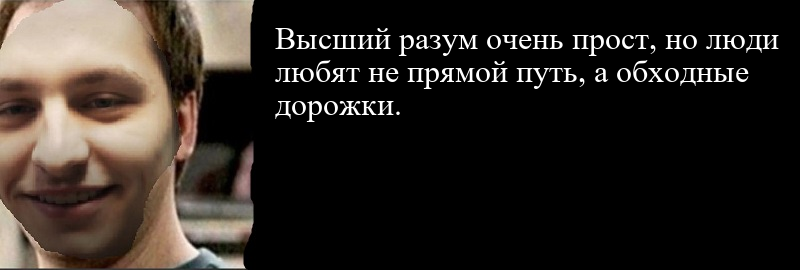
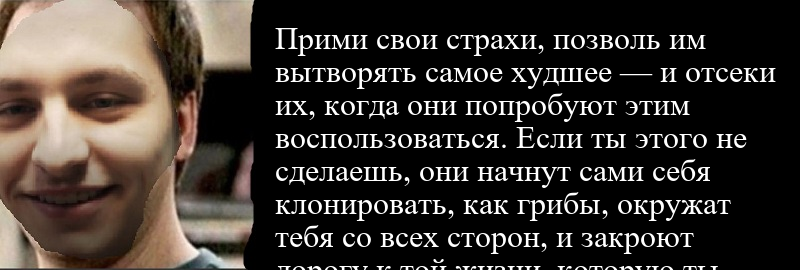
upd for heroku

diff --git a/heroku_run.py b/heroku_run.py
@@ -1,0 +1,149 @@
+#! /usr/bin/env python
+# -*- coding: utf-8 -*-
+import logging
+import os
+from aiogram import Bot, types, md
+from aiogram.dispatcher import Dispatcher
+from aiogram.utils.executor import start_webhook
+import random
+import asyncio
+import aiohttp
+from PIL import Image, ImageChops, ImageDraw, ImageFont
+
+TOKEN = os.environ['TOKEN']
+ID_TRENER = os.environ['ID_TRENER']
+
+WEBHOOK_HOST = 'https://djavidbot.herokuapp.com/'  # name your app
+WEBHOOK_PATH = '/webhook/'
+WEBHOOK_URL = f"{WEBHOOK_HOST}{WEBHOOK_PATH}"
+
+WEBAPP_HOST = '0.0.0.0'
+WEBAPP_PORT = os.environ.get('PORT')
+
+logging.basicConfig(level=logging.INFO)
+
+bot = Bot(token=TOKEN)
+dp = Dispatcher(bot)
+newmemes_count = [0]
+
+def check_admin_id(from__user__id) :
+    if from__user__id == ID_TRENER :
+        return True
+    else :
+        return False
+
+def get_array_words(stringii) :
+    my_array_w = stringii.split(' ');
+    return my_array_w
+
+def get_array_strings(stringii,lenght_odnoj_string,font_fs) :
+    my_array_w = stringii.split(' ');
+    return_array_strs = [my_array_w[0]]
+    i = 1
+    row_index = 0
+    while i < len(my_array_w) :
+        size_new_str_in_pxls = font_fs.getsize(return_array_strs[row_index]+' '+my_array_w[i])
+        #print('\nwidth : '+str(size_new_str_in_pxls[0])+'\n')
+        if(size_new_str_in_pxls[0] < lenght_odnoj_string) :
+            return_array_strs[row_index] = return_array_strs[row_index] + ' ' + my_array_w[i]
+        else :
+            row_index = row_index + 1
+            return_array_strs.append(my_array_w[i])
+        i = i + 1
+    return return_array_strs
+
+async def create_david_mem(typo_text__citati) :
+    newmemes_count[0] = newmemes_count[0] + 1;
+    if newmemes_count[0] > 20 :
+        newmemes_count[0] = 1
+    font = ImageFont.truetype("times.ttf", size=32)
+    try:
+        my_img = Image.open("img/ava_horiz_270.jpg")
+    except:
+        print("Unable to load image")
+    idraw = ImageDraw.Draw(my_img)
+    #text = typo_text__citati
+    array_text = get_array_strings(typo_text__citati,520,font)
+    visota = 33
+    i = 0
+    for text_one_stringi in array_text :
+         idraw.text((275, 20+(visota*i)), array_text[i], font=font)
+         i = i + 1
+    my_img_new_name = 'mem'+str(newmemes_count[0])+'.png'
+    my_img.save(my_img_new_name)
+    return my_img_new_name
+
+async def get_citata() :
+    text_citati = ""
+    session = aiohttp.ClientSession()
+    my_querty_post_ = {'method':'getQuote','key':'457653','format':'json','lang':'ru'}
+    async with session.post('http://api.forismatic.com/api/1.0/', data=my_querty_post_) as resp :
+        my_json = await resp.json()
+        text_citati = my_json['quoteText']
+        print(await resp.json())
+    await session.close()
+    return text_citati
+
+#-- Команди для плєбєїв
+@dp.message_handler(commands=['start'])
+async def process_start_command(message: types.Message):
+    if check_admin_id(message.from_user.id) :
+        await bot.send_message(message.from_user.id, "/help\n/debsd\n/testq\n\t\tАхуєнний Код Давінчі")
+    else :
+        await bot.send_message(message.from_user.id, "Djavid Commands:\n/help\n/mydroch\n/autor")
+
+@dp.message_handler(commands=['help'])
+async def process_help_command(message: types.Message):
+    await bot.send_message(message.chat.id, "/mydroch - форсовано змусити мене сказати шось разумне.\n(c) Djavid")
+
+@dp.message_handler(commands=['autor'])
+async def process_help_command(message: types.Message):
+    await bot.send_message(message.from_user.id, "Зробив LS. кантакт @romanefimen")
+
+@dp.message_handler(commands=['debsd'])
+async def process_debsd_command(message: types.Message):
+    if check_admin_id(message.from_user.id) :
+        print(str(message))
+
+@dp.message_handler(commands=['testq'])
+async def process_testq_command(message: types.Message):
+    if check_admin_id(message.from_user.id) :
+        lol = await get_citata()
+        img_path = await create_david_mem(lol)
+        #await bot.send_message(message.chat.id, lol+'\n(c) Джавид')
+        await bot.send_photo(message.from_user.id, open(img_path,'rb'))
+        #print("Citat\n"+lol+'\n')
+
+@dp.message_handler(commands=['mydroch'])
+async def process_mydrost_command(message: types.Message):
+    citata_text = await get_citata()
+    img_path = await create_david_mem(citata_text)
+    await bot.send_photo(message.chat.id, open(img_path,'rb'))
+
+#-- My commands vsyo
+'''
+@dp.message_handler(commands='start')
+async def welcome(message: types.Message):
+    await bot.send_message(
+        message.chat.id,
+        f'Приветствую! Это демонтрационный бот\n'
+        f'Подробная информация на '
+        f'{md.hlink("github", "https://github.com/deploy-your-bot-everywhere/heroku")}',
+        parse_mode=types.ParseMode.HTML,
+        disable_web_page_preview=True)
+@dp.message_handler()
+async def echo(message: types.Message):
+    await bot.send_message(message.chat.id, message.text)
+'''
+
+async def on_startup(dp):
+    await bot.set_webhook(WEBHOOK_URL)
+
+async def on_shutdown(dp):
+    await bot.send_message(ID_TRENER, "Я лежу пизда мен1")
+    pass
+
+if __name__ == '__main__':
+    start_webhook(dispatcher=dp, webhook_path=WEBHOOK_PATH,
+                  on_startup=on_startup, on_shutdown=on_shutdown,
+                  host=WEBAPP_HOST, port=WEBAPP_PORT)

diff --git a/primer/heroku-master/main.py b/primer/heroku-master/main.py
@@ -1,0 +1,51 @@
+import logging
+import os
+from aiogram import Bot, types, md
+from aiogram.dispatcher import Dispatcher
+from aiogram.utils.executor import start_webhook
+
+TOKEN = os.environ['TOKEN']
+
+
+WEBHOOK_HOST = 'https://deploy-heroku-bot.herokuapp.com'  # name your app
+WEBHOOK_PATH = '/webhook/'
+WEBHOOK_URL = f"{WEBHOOK_HOST}{WEBHOOK_PATH}"
+
+WEBAPP_HOST = '0.0.0.0'
+WEBAPP_PORT = os.environ.get('PORT')
+
+logging.basicConfig(level=logging.INFO)
+
+bot = Bot(token=TOKEN)
+dp = Dispatcher(bot)
+
+
+@dp.message_handler(commands='start')
+async def welcome(message: types.Message):
+    await bot.send_message(
+        message.chat.id,
+        f'Приветствую! Это демонтрационный бот\n'
+        f'Подробная информация на '
+        f'{md.hlink("github", "https://github.com/deploy-your-bot-everywhere/heroku")}',
+        parse_mode=types.ParseMode.HTML,
+        disable_web_page_preview=True)
+
+
+@dp.message_handler()
+async def echo(message: types.Message):
+    await bot.send_message(message.chat.id, message.text)
+
+
+async def on_startup(dp):
+    await bot.set_webhook(WEBHOOK_URL)
+
+
+async def on_shutdown(dp):
+    # insert code here to run it before shutdown
+    pass
+
+
+if __name__ == '__main__':
+    start_webhook(dispatcher=dp, webhook_path=WEBHOOK_PATH,
+                  on_startup=on_startup, on_shutdown=on_shutdown,
+                  host=WEBAPP_HOST, port=WEBAPP_PORT)

diff --git a/main.py b/main.py
@@ -1,0 +1,49 @@
+import logging
+import os
+from aiogram import Bot, types, md
+from aiogram.dispatcher import Dispatcher
+from aiogram.utils.executor import start_webhook
+
+TOKEN = os.environ['TOKEN']
+
+WEBHOOK_HOST = 'https://deploy-heroku-bot.herokuapp.com'  # name your app
+WEBHOOK_PATH = '/webhook/'
+WEBHOOK_URL = f"{WEBHOOK_HOST}{WEBHOOK_PATH}"
+
+WEBAPP_HOST = '0.0.0.0'
+WEBAPP_PORT = os.environ.get('PORT')
+
+logging.basicConfig(level=logging.INFO)
+
+bot = Bot(token=TOKEN)
+dp = Dispatcher(bot)
+
+@dp.message_handler(commands='start')
+async def welcome(message: types.Message):
+    await bot.send_message(
+        message.chat.id,
+        f'Приветствую! Это демонтрационный бот\n'
+        f'Подробная информация на '
+        f'{md.hlink("github", "https://github.com/deploy-your-bot-everywhere/heroku")}',
+        parse_mode=types.ParseMode.HTML,
+        disable_web_page_preview=True)
+
+
+@dp.message_handler()
+async def echo(message: types.Message):
+    await bot.send_message(message.chat.id, message.text)
+
+
+async def on_startup(dp):
+    await bot.set_webhook(WEBHOOK_URL)
+
+
+async def on_shutdown(dp):
+    # insert code here to run it before shutdown
+    pass
+
+
+if __name__ == '__main__':
+    start_webhook(dispatcher=dp, webhook_path=WEBHOOK_PATH,
+                  on_startup=on_startup, on_shutdown=on_shutdown,
+                  host=WEBAPP_HOST, port=WEBAPP_PORT)

diff --git a/primer/heroku-master/README.md b/primer/heroku-master/README.md
@@ -1,0 +1,133 @@
+# Deploy [Heroku](https://www.heroku.com/) Bot
+
+## Подготовка
+* Регистрируемся по [ссылке](https://signup.heroku.com/)
+
+* Далее скачиваем [Heroku CLI](https://devcenter.heroku.com/articles/getting-started-with-python#set-up)
+
+* Клонируем репозиторий
+```
+git clone https://github.com/deploy-your-bot-everywhere/heroku.git
+```
+> ВАЖНО!: Если вы создаете проект с нуля, то инициализируйте репозиторий командой `git init`
+
+## Работа с Heroku CLI
+* Логинимся
+```bash
+╰─ heroku login
+heroku: Enter your login credentials
+Email: example@gmail.com
+Password: ******
+Logged in as example@gmail.com
+
+```
+* Создаем приложение, где указываем нужный **buildpack** и регион **eu** или **us**
+```bash
+╰─ heroku create -b heroku/python --region eu deploy-heroku-bot 
+Creating ⬢ deploy-heroku-bot... done, region is eu
+Setting buildpack to heroku/python... done
+https://deploy-heroku-bot.herokuapp.com/ | https://git.heroku.com/deploy-heroku-bot.git
+```
+* Связываем наш репозиторий с Heroku
+```bash
+heroku git:remote deploy-heroku-bot
+```
+* Прописываем токен бота в переменную окружения
+```bash
+╰─ heroku config:set TOKEN=123429417:AAEG39dbtyy4UrUDkvE7L5hIKuoIuQp9pfs
+Setting TOKEN and restarting ⬢ deploy-heroku-bot... done, v4
+TOKEN: 123429417:AAEG39dbtyy4UrUDkvE7L5hIKuoIuQp9pfs
+```
+* Деплоим
+```bash
+╰─ git push heroku master
+Подсчет объектов: 11, готово.
+Delta compression using up to 4 threads.
+Сжатие объектов: 100% (5/5), готово.
+Запись объектов: 100% (11/11), 1.61 KiB | 0 bytes/s, готово.
+Total 11 (delta 0), reused 0 (delta 0)
+remote: Compressing source files... done.
+remote: Building source:
+remote: 
+remote: -----> Python app detected
+remote:        Using supported version of Python 3.7 (python-3.7.0)
+remote: -----> Installing python-3.7.0
+remote: -----> Installing pip
+remote: -----> Installing SQLite3
+remote: -----> Installing requirements with pip
+remote:        Collecting aiogram (from -r /tmp/build_13d2e83f9268344ff0a66817c2ec5878/requirements.txt (line 1))
+remote:          Downloading https://files.pythonhosted.org/packages/59/f0/a6212f62fce3da9a530ad4dd25e5c049627fc10107b99a53a874a90009c5/aiogram-2.0-py3-none-any.whl (130kB)
+remote:        Collecting aiohttp (from -r /tmp/build_13d2e83f9268344ff0a66817c2ec5878/requirements.txt (line 2))
+remote:          Downloading https://files.pythonhosted.org/packages/97/29/9d1912f2746d171fc2fc0042a9edd117d386d53382a3aa12f7853466d52e/aiohttp-3.4.4-cp37-cp37m-manylinux1_x86_64.whl (1.1MB)
+remote:        Collecting certifi>=2018.8.24 (from aiogram->-r /tmp/build_13d2e83f9268344ff0a66817c2ec5878/requirements.txt (line 1))
+remote:          Downloading https://files.pythonhosted.org/packages/56/9d/1d02dd80bc4cd955f98980f28c5ee2200e1209292d5f9e9cc8d030d18655/certifi-2018.10.15-py2.py3-none-any.whl (146kB)
+remote:        Collecting Babel>=2.6.0 (from aiogram->-r /tmp/build_13d2e83f9268344ff0a66817c2ec5878/requirements.txt (line 1))
+remote:          Downloading https://files.pythonhosted.org/packages/b8/ad/c6f60602d3ee3d92fbed87675b6fb6a6f9a38c223343ababdb44ba201f10/Babel-2.6.0-py2.py3-none-any.whl (8.1MB)
+remote:        Collecting multidict<5.0,>=4.0 (from aiohttp->-r /tmp/build_13d2e83f9268344ff0a66817c2ec5878/requirements.txt (line 2))
+remote:          Downloading https://files.pythonhosted.org/packages/a7/57/cefa7a7f30b03006506dd0f44988613d40efbc987d82f34dfe9027800347/multidict-4.4.2-cp37-cp37m-manylinux1_x86_64.whl (386kB)
+remote:        Collecting chardet<4.0,>=2.0 (from aiohttp->-r /tmp/build_13d2e83f9268344ff0a66817c2ec5878/requirements.txt (line 2))
+remote:          Downloading https://files.pythonhosted.org/packages/bc/a9/01ffebfb562e4274b6487b4bb1ddec7ca55ec7510b22e4c51f14098443b8/chardet-3.0.4-py2.py3-none-any.whl (133kB)
+remote:        Collecting yarl<2.0,>=1.0 (from aiohttp->-r /tmp/build_13d2e83f9268344ff0a66817c2ec5878/requirements.txt (line 2))
+remote:          Downloading https://files.pythonhosted.org/packages/43/b8/057c3e5b546ff4b24263164ecda13f6962d85c9dc477fcc0bcdcb3adb658/yarl-1.2.6.tar.gz (159kB)
+remote:        Collecting attrs>=17.3.0 (from aiohttp->-r /tmp/build_13d2e83f9268344ff0a66817c2ec5878/requirements.txt (line 2))
+remote:          Downloading https://files.pythonhosted.org/packages/3a/e1/5f9023cc983f1a628a8c2fd051ad19e76ff7b142a0faf329336f9a62a514/attrs-18.2.0-py2.py3-none-any.whl
+remote:        Collecting async-timeout<4.0,>=3.0 (from aiohttp->-r /tmp/build_13d2e83f9268344ff0a66817c2ec5878/requirements.txt (line 2))
+remote:          Downloading https://files.pythonhosted.org/packages/e1/1e/5a4441be21b0726c4464f3f23c8b19628372f606755a9d2e46c187e65ec4/async_timeout-3.0.1-py3-none-any.whl
+remote:        Collecting pytz>=0a (from Babel>=2.6.0->aiogram->-r /tmp/build_13d2e83f9268344ff0a66817c2ec5878/requirements.txt (line 1))
+remote:          Downloading https://files.pythonhosted.org/packages/f8/0e/2365ddc010afb3d79147f1dd544e5ee24bf4ece58ab99b16fbb465ce6dc0/pytz-2018.7-py2.py3-none-any.whl (506kB)
+remote:        Collecting idna>=2.0 (from yarl<2.0,>=1.0->aiohttp->-r /tmp/build_13d2e83f9268344ff0a66817c2ec5878/requirements.txt (line 2))
+remote:          Downloading https://files.pythonhosted.org/packages/4b/2a/0276479a4b3caeb8a8c1af2f8e4355746a97fab05a372e4a2c6a6b876165/idna-2.7-py2.py3-none-any.whl (58kB)
+remote:        Installing collected packages: multidict, chardet, idna, yarl, attrs, async-timeout, aiohttp, certifi, pytz, Babel, aiogram
+remote:          Running setup.py install for yarl: started
+remote:            Running setup.py install for yarl: finished with status 'done'
+remote:        Successfully installed Babel-2.6.0 aiogram-2.0 aiohttp-3.4.4 async-timeout-3.0.1 attrs-18.2.0 certifi-2018.10.15 chardet-3.0.4 idna-2.7 multidict-4.4.2 pytz-2018.7 yarl-1.2.6
+remote: 
+remote: -----> Discovering process types
+remote:        Procfile declares types -> web
+remote: 
+remote: -----> Compressing...
+remote:        Done: 56.7M
+remote: -----> Launching...
+remote:        Released v5
+remote:        https://deploy-heroku-bot.herokuapp.com/ deployed to Heroku
+remote: 
+remote: Verifying deploy... done.
+To https://git.heroku.com/deploy-heroku-bot.git
+ * [new branch]      master -> master
+```
+* Проверяем, что все работает 🎉 🎊
+```bash
+╰─ heroku ps         
+Free dyno hours quota remaining this month: 548h 51m (99%)
+Free dyno usage for this app: 0h 0m (0%)
+For more information on dyno sleeping and how to upgrade, see:
+https://devcenter.heroku.com/articles/dyno-sleeping
+
+=== web (Free): python main.py (1)
+web.1: up 2018/11/04 17:00:27 +0300 (~ 51s ago)
+```
+
+## Деплой через GitHub
+1. На [странице](https://dashboard.heroku.com/apps) создаем новое приложение
+![Create app](https://i.imgur.com/1jBnzNG.png)
+![Create app](https://i.imgur.com/jYYiSFe.png)
+> Не забываем добавить токен бота `heroku config:set TOKEN=123429417:AAEG39dbtyy4UrUDkvE7L5hIKuoIuQp9pfs`
+2. Подключаем наш репозиторий
+![Create app](https://i.imgur.com/yu6ePUK.png)
+3. Включаем **Automatic deploys** ветки **master**
+
+![Create app](https://i.imgur.com/HK0o5v0.png)
+4. Так же выбираем нужную нам ветку и жмем **Deploy Branch**
+![Create app](https://i.imgur.com/zaufuoh.png)
+
+## Пояснение к коду
+1. [main.py](https://github.com/deploy-your-bot-everywhere/heroku/blob/master/main.py)
+```python
+TOKEN = os.environ['TOKEN']  # Берем токен из переменной окружения, которую добавили ранее
+WEBHOOK_HOST = 'https://deploy-heroku-bot.herokuapp.com'  # Здесь указываем https://<название_приложения>.herokuapp.com
+WEBAPP_HOST = '0.0.0.0'  # Слушаем все подключения к нашему приложению
+WEBAPP_PORT = os.environ.get('PORT')  # тк в Procfile мы указали process_type web, heroku сгенерирует нам нужный порт, его достаточно взять из переменной окружения
+```
+2. В [runtime.txt](https://github.com/deploy-your-bot-everywhere/heroku/blob/master/runtime.txt) указываем версию python
+3. В [Procfile](https://github.com/deploy-your-bot-everywhere/heroku/blob/master/Procfile) `<process type>: <command>`
+4. И не забываем указывать зависимости в файле [requirements.txt](https://github.com/deploy-your-bot-everywhere/heroku/blob/master/requirements.txt)
